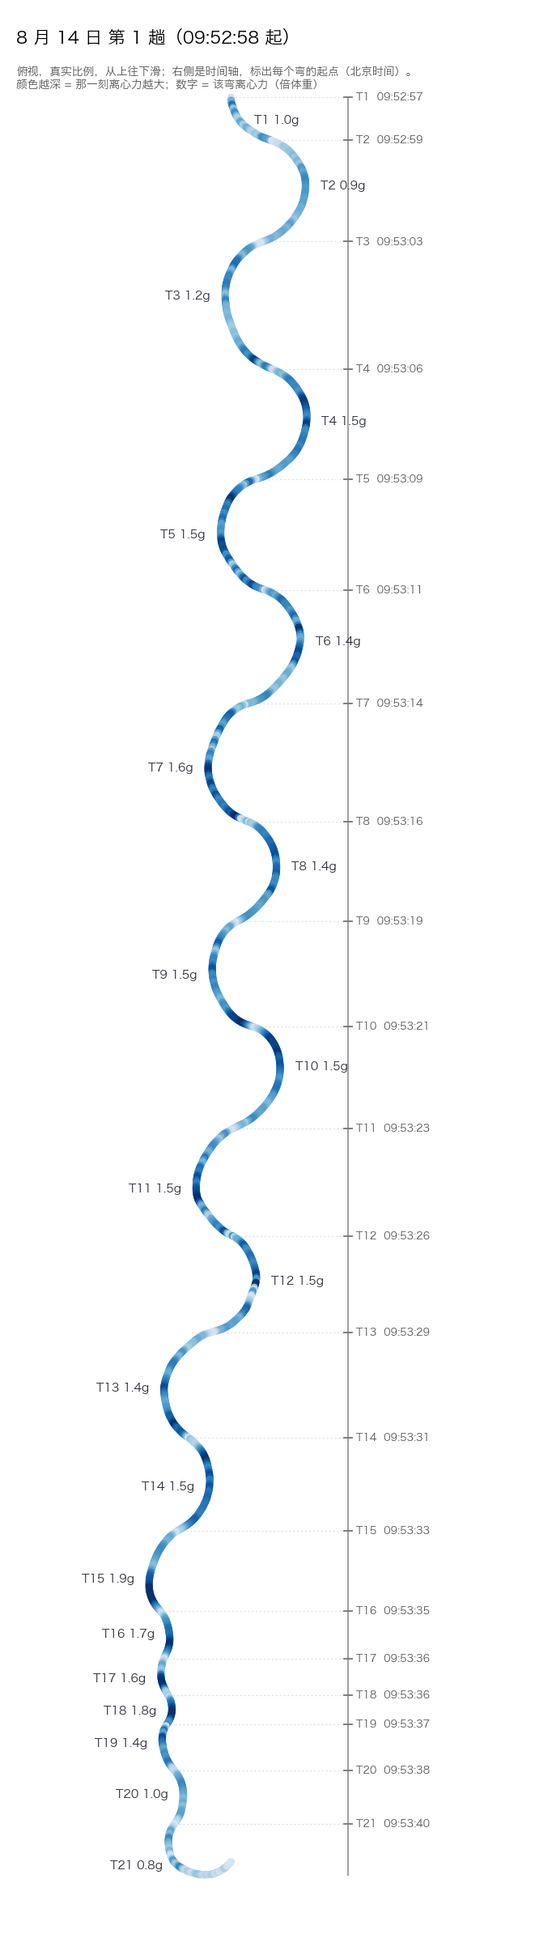
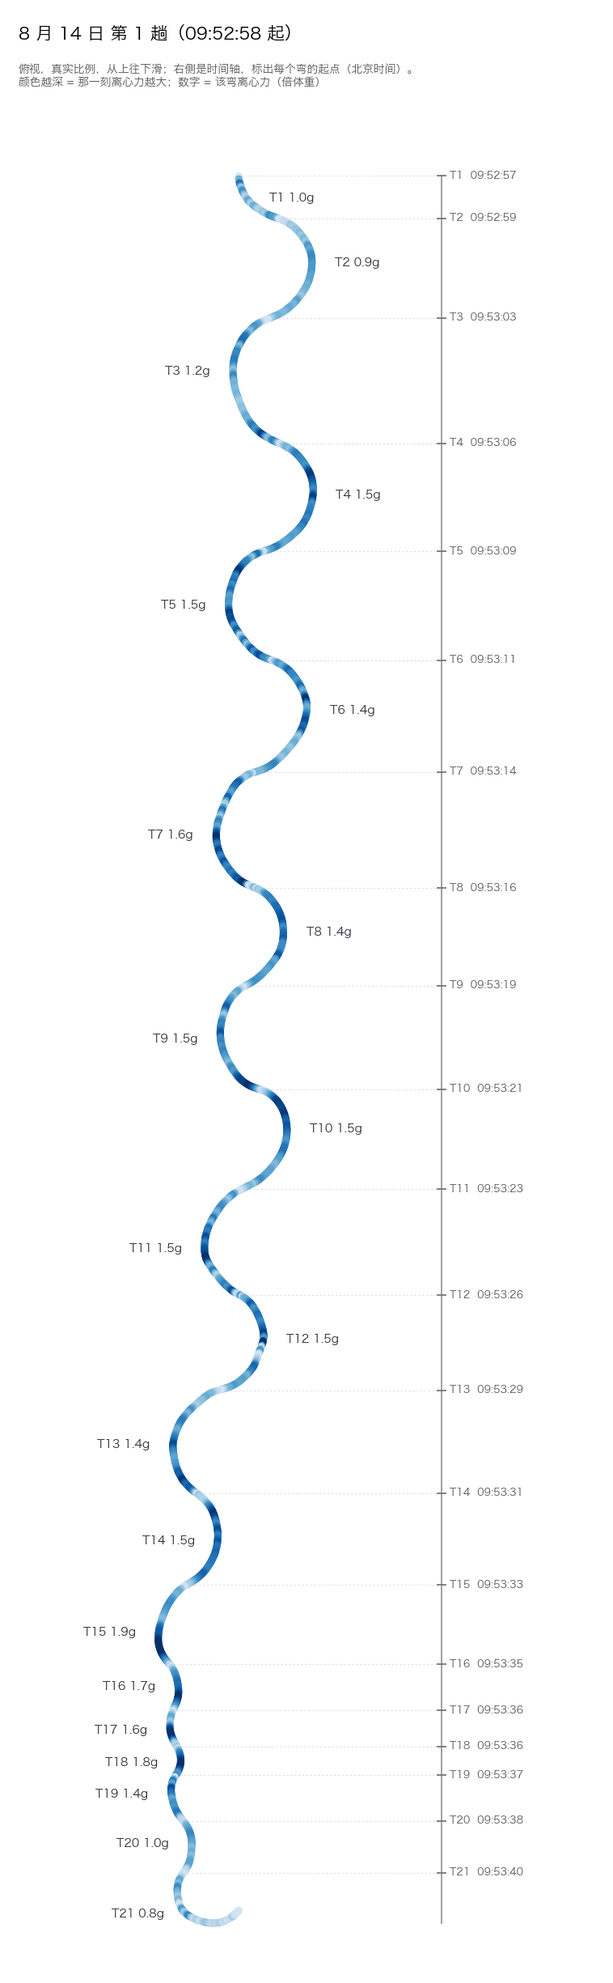
fix overlapping in turn shapes; mobile layout

diff --git a/index.html b/index.html
@@ -1,9 +1,9 @@
-<!doctype html><html lang="zh-CN"><head><meta charset="utf-8"><meta name="viewport" content="width=device-width, initial-scale=1">
+<!doctype html><html lang="zh-CN"><head><meta charset="utf-8"><meta name="color-scheme" content="light only"><meta name="viewport" content="width=device-width, initial-scale=1">
 <meta name="robots" content="noindex, nofollow, noarchive, nosnippet, noimageindex"><meta name="referrer" content="no-referrer">
 <title>视频逐弯核对 · 8 月 14 日第 1 趟 · Heygo</title>
 <style>
-:root{--ink:#1d2433;--sub:#5b6577;--line:#e6e9ef;--bg:#f6f7fb;--blue:#2a6fdb}
-*{box-sizing:border-box} body{margin:0;background:var(--bg);color:var(--ink);font-family:-apple-system,"PingFang SC","Hiragino Sans GB","Microsoft YaHei",sans-serif;line-height:1.7}
+html{color-scheme:light} :root{--ink:#1d2433;--sub:#5b6577;--line:#e6e9ef;--bg:#f6f7fb;--blue:#2a6fdb}
+*{box-sizing:border-box} body{margin:0;overflow-x:hidden;background:var(--bg);color:var(--ink);font-family:-apple-system,"PingFang SC","Hiragino Sans GB","Microsoft YaHei",sans-serif;line-height:1.7}
 .wrap{max-width:980px;margin:0 auto;padding:24px 14px 60px} h1{font-size:23px;margin:4px 0} .by{color:var(--sub);font-size:14px}
 h2{font-size:18px;margin:28px 0 6px} h3{font-size:16px;margin:0 0 8px} h3 .t{font-size:12px;color:var(--sub);font-weight:400;margin-left:6px}
 .card{background:#fff;border:1px solid var(--line);border-radius:12px;padding:14px 16px;margin-top:12px}
@@ -20,7 +20,7 @@ table{border-collapse:collapse;width:100%;font-size:13px;margin-top:6px} th,td{b
 .tabs input:nth-of-type(1):checked ~ .panes .p0,.tabs input:nth-of-type(2):checked ~ .panes .p1,.tabs input:nth-of-type(3):checked ~ .panes .p2{display:block}
 .tabs input:nth-of-type(1):checked ~ .btns label:nth-of-type(1),.tabs input:nth-of-type(2):checked ~ .btns label:nth-of-type(2),.tabs input:nth-of-type(3):checked ~ .btns label:nth-of-type(3){background:var(--blue);color:#fff}
 .cap{font-size:13px;color:var(--sub)}
-@media(max-width:700px){.sync{grid-template-columns:1fr 1fr} canvas{height:420px} .pair{grid-template-columns:1fr} .pair video{width:100%;max-width:260px;margin:0 auto;display:block}}
+@media(max-width:700px){.sync{grid-template-columns:minmax(0,1fr)} .sync>*,.pair>*{min-width:0} .sync video{max-width:300px;display:block;margin:0 auto} canvas{height:460px} .pair{grid-template-columns:minmax(0,1fr)} .pair video{width:100%;max-width:260px;margin:0 auto;display:block}}
 </style></head><body><div class="wrap">
 <h1>视频逐弯核对：8 月 14 日第 1 趟</h1><div class="by">Heygo 团队 · 2026 年 10 月 3 日</div>
 <div class="card">会话 e3343d5d，2026 年 8 月 14 日室内雪场，第 1 趟（北京时间 09:52:58–09:53:44），App 135 分。传感器把这一趟切成 21 个弯；视频 TC_00873 拍到了 T1 到 T20 的全部和 T21 的前一半。
@@ -32,7 +32,7 @@ table{border-collapse:collapse;width:100%;font-size:13px;margin-top:6px} th,td{b
 <h2>边看视频边看位置</h2>
 <div class="card"><div class="sync"><div><video id="v" src="clips/full.mp4" controls muted playsinline preload="metadata"></video>
 <div class="live"><div>当前<b id="lk">—</b></div><div>离心力<b id="lg">—</b></div><div>立刃角<b id="lr">—</b></div></div>
-<p class="cap">播放视频，右边的红点会跟着滑手在真实弯型上走（放大显示附近一段，最右边窄条是整趟）；颜色越深的地方离心力越大。点弯型上的任意位置可以跳到那一刻。</p></div>
+<p class="cap">播放视频，弯型上的红点会跟着滑手在真实弯型上走（放大显示附近一段，最右边窄条是整趟）；颜色越深的地方离心力越大。点弯型上的任意位置可以跳到那一刻。</p></div>
 <canvas id="c"></canvas></div></div>
 
 <h2>整趟三张图</h2>
@@ -132,19 +132,25 @@ table{border-collapse:collapse;width:100%;font-size:13px;margin-top:6px} th,td{b
 <script>
 const D={"sec":[57.957,57.997,58.037,58.077,58.117,58.157,58.197,58.237,58.277,58.317,58.357,58.397,58.437,58.477,58.517,58.557,58.597,58.637,58.677,58.717,58.757,58.797,58.837,58.877,58.917,58.957,58.997,59.037,59.077,59.117,59.157,59.197,59.237,59.277,59.317,59.357,59.397,59.437,59.477,59.517,59.557,59.597,59.637,59.677,59.717,59.757,59.797,59.837,59.877,59.917,59.957,59.997,60.037,60.077,60.117,60.157,60.197,60.237,60.277,60.317,60.357,60.397,60.437,60.477,60.517,60.557,60.597,60.637,60.677,60.717,60.757,60.797,60.837,60.877,60.917,60.957,60.997,61.037,61.077,61.117,61.157,61.197,61.237,61.277,61.317,61.357,61.397,61.437,61.477,61.517,61.557,61.597,61.637,61.677,61.717,61.757,61.797,61.837,61.877,61.917,61.957,61.997,62.037,62.077,62.117,62.157,62.197,62.237,62.277,62.317,62.357,62.397,62.437,62.477,62.517,62.557,62.597,62.637,62.677,62.717,62.757,62.797,62.837,62.877,62.917,62.957,62.997,63.037,63.077,63.117,63.157,63.197,63.237,63.277,63.317,63.357,63.397,63.437,63.477,63.517,63.557,63.597,63.637,63.677,63.717,63.757,63.797,63.837,63.877,63.917,63.957,63.997,64.037,64.077,64.117,64.157,64.197,64.237,64.277,64.317,64.357,64.397,64.437,64.477,64.517,64.557,64.597,64.637,64.677,64.717,64.757,64.797,64.837,64.877,64.917,64.957,64.997,65.037,65.077,65.117,65.157,65.197,65.237,65.277,65.317,65.357,65.397,65.437,65.477,65.517,65.557,65.597,65.637,65.677,65.717,65.757,65.797,65.837,65.877,65.917,65.957,65.997,66.037,66.077,66.117,66.157,66.197,66.237,66.277,66.317,66.357,66.397,66.437,66.477,66.517,66.557,66.597,66.637,66.677,66.717,66.757,66.797,66.837,66.877,66.917,66.957,66.997,67.037,67.077,67.117,67.157,67.197,67.237,67.277,67.317,67.357,67.397,67.437,67.477,67.517,67.557,67.597,67.637,67.677,67.717,67.757,67.797,67.837,67.877,67.917,67.957,67.997,68.037,68.077,68.117,68.157,68.197,68.237,68.277,68.317,68.357,68.397,68.437,68.477,68.517,68.557,68.597,68.637,68.677,68.717,68.757,68.797,68.837,68.877,68.917,68.957,68.997,69.037,69.077,69.117,69.157,69.197,69.237,69.277,69.317,69.357,69.397,69.437,69.477,69.517,69.557,69.597,69.637,69.677,69.717,69.757,69.797,69.837,69.877,69.917,69.957,69.997,70.037,70.077,70.117,70.157,70.197,70.237,70.277,70.317,70.357,70.397,70.437,70.477,70.517,70.557,70.597,70.637,70.677,70.717,70.757,70.797,70.837,70.877,70.917,70.957,70.997,71.037,71.077,71.117,71.157,71.197,71.237,71.277,71.317,71.357,71.397,71.437,71.477,71.517,71.557,71.597,71.637,71.677,71.717,71.757,71.797,71.837,71.877,71.917,71.957,71.997,72.037,72.077,72.117,72.157,72.197,72.237,72.277,72.317,72.357,72.397,72.437,72.477,72.517,72.557,72.597,72.637,72.677,72.717,72.757,72.797,72.837,72.877,72.917,72.957,72.997,73.037,73.077,73.117,73.157,73.197,73.237,73.277,73.317,73.357,73.397,73.437,73.477,73.517,73.557,73.597,73.637,73.677,73.717,73.757,73.797,73.837,73.877,73.917,73.957,73.997,74.037,74.077,74.117,74.157,74.197,74.237,74.277,74.317,74.357,74.397,74.437,74.477,74.517,74.557,74.597,74.637,74.677,74.717,74.757,74.797,74.837,74.877,74.917,74.957,74.997,75.037,75.077,75.117,75.157,75.197,75.237,75.277,75.317,75.357,75.397,75.437,75.477,75.517,75.557,75.597,75.637,75.677,75.717,75.757,75.797,75.837,75.877,75.917,75.957,75.997,76.037,76.077,76.117,76.157,76.197,76.237,76.277,76.317,76.357,76.397,76.437,76.477,76.517,76.557,76.597,76.637,76.677,76.717,76.757,76.797,76.837,76.877,76.917,76.957,76.997,77.037,77.077,77.117,77.157,77.197,77.237,77.277,77.317,77.357,77.397,77.437,77.477,77.517,77.557,77.597,77.637,77.677,77.717,77.757,77.797,77.837,77.877,77.917,77.957,77.997,78.037,78.077,78.117,78.157,78.197,78.237,78.277,78.317,78.357,78.397,78.437,78.477,78.517,78.557,78.597,78.637,78.677,78.717,78.757,78.797,78.837,78.877,78.917,78.957,78.997,79.037,79.077,79.117,79.157,79.197,79.237,79.277,79.317,79.357,79.397,79.437,79.477,79.517,79.557,79.597,79.637,79.677,79.717,79.757,79.797,79.837,79.877,79.917,79.957,79.997,80.037,80.077,80.117,80.157,80.197,80.237,80.277,80.317,80.357,80.397,80.437,80.477,80.517,80.557,80.597,80.637,80.677,80.717,80.757,80.797,80.837,80.877,80.917,80.957,80.997,81.037,81.077,81.117,81.157,81.197,81.237,81.277,81.317,81.357,81.397,81.437,81.477,81.517,81.557,81.597,81.637,81.677,81.717,81.757,81.797,81.837,81.877,81.917,81.957,81.997,82.037,82.077,82.117,82.157,82.197,82.237,82.277,82.317,82.357,82.397,82.437,82.477,82.517,82.557,82.597,82.637,82.677,82.717,82.757,82.797,82.837,82.877,82.917,82.957,82.997,83.037,83.077,83.117,83.157,83.197,83.237,83.277,83.317,83.357,83.397,83.437,83.477,83.517,83.557,83.597,83.637,83.677,83.717,83.757,83.797,83.837,83.877,83.917,83.957,83.997,84.037,84.077,84.117,84.157,84.197,84.237,84.277,84.317,84.357,84.397,84.437,84.477,84.517,84.557,84.597,84.637,84.677,84.717,84.757,84.797,84.837,84.877,84.917,84.957,84.997,85.037,85.077,85.117,85.157,85.197,85.237,85.277,85.317,85.357,85.397,85.437,85.477,85.517,85.557,85.597,85.637,85.677,85.717,85.757,85.797,85.837,85.877,85.917,85.957,85.997,86.037,86.077,86.117,86.157,86.197,86.237,86.277,86.317,86.357,86.397,86.437,86.477,86.517,86.557,86.597,86.637,86.677,86.717,86.757,86.797,86.837,86.877,86.917,86.957,86.997,87.037,87.077,87.117,87.157,87.197,87.237,87.277,87.317,87.357,87.397,87.437,87.477,87.517,87.557,87.597,87.637,87.677,87.717,87.757,87.797,87.837,87.877,87.917,87.957,87.997,88.037,88.077,88.117,88.157,88.197,88.237,88.277,88.317,88.357,88.397,88.437,88.477,88.517,88.557,88.597,88.637,88.677,88.717,88.757,88.797,88.837,88.877,88.917,88.957,88.997,89.037,89.077,89.117,89.157,89.197,89.237,89.277,89.317,89.357,89.397,89.437,89.477,89.517,89.557,89.597,89.637,89.677,89.717,89.757,89.797,89.837,89.877,89.917,89.957,89.997,90.037,90.077,90.117,90.157,90.197,90.237,90.277,90.317,90.357,90.397,90.437,90.477,90.517,90.557,90.597,90.637,90.677,90.717,90.757,90.797,90.837,90.877,90.917,90.957,90.997,91.037,91.077,91.117,91.157,91.197,91.237,91.277,91.317,91.357,91.397,91.437,91.477,91.517,91.557,91.597,91.637,91.677,91.717,91.757,91.797,91.837,91.877,91.917,91.957,91.997,92.037,92.077,92.117,92.157,92.197,92.237,92.277,92.317,92.357,92.397,92.437,92.477,92.517,92.557,92.597,92.637,92.677,92.717,92.757,92.797,92.837,92.877,92.917,92.957,92.997,93.037,93.077,93.117,93.157,93.197,93.237,93.277,93.317,93.357,93.397,93.437,93.477,93.517,93.557,93.597,93.637,93.677,93.717,93.757,93.797,93.837,93.877,93.917,93.957,93.997,94.037,94.077,94.117,94.157,94.197,94.237,94.277,94.317,94.357,94.397,94.437,94.477,94.517,94.557,94.597,94.637,94.677,94.717,94.757,94.797,94.837,94.877,94.917,94.957,94.997,95.037,95.077,95.117,95.157,95.197,95.237,95.277,95.317,95.357,95.397,95.437,95.477,95.517,95.557,95.597,95.637,95.677,95.717,95.757,95.797,95.837,95.877,95.917,95.957,95.997,96.037,96.077,96.117,96.157,96.197,96.237,96.277,96.317,96.357,96.397,96.437,96.477,96.517,96.557,96.597,96.637,96.677,96.717,96.757,96.797,96.837,96.877,96.917,96.957,96.997,97.037,97.077,97.117,97.157,97.197,97.237,97.277,97.317,97.357,97.397,97.437,97.477,97.517,97.557,97.597,97.637,97.677,97.717,97.757,97.797,97.837,97.877,97.917,97.957,97.997,98.037,98.077,98.117,98.157,98.197,98.237,98.277,98.317,98.357,98.397,98.437,98.477,98.517,98.557,98.597,98.637,98.677,98.717,98.757,98.797,98.837,98.877,98.917,98.957,98.997,99.037,99.077,99.117,99.157,99.197,99.237,99.277,99.317,99.357,99.397,99.437,99.477,99.517,99.557,99.597,99.637,99.677,99.717,99.757,99.797,99.837,99.877,99.917,99.957,99.997,100.037,100.077,100.117,100.157,100.197,100.237,100.277,100.317,100.357,100.397,100.437,100.477,100.517,100.557,100.597,100.637,100.677,100.717,100.757,100.797,100.837,100.877,100.917,100.957,100.997,101.037,101.077,101.117,101.157,101.197,101.237,101.277,101.317,101.357,101.397,101.437,101.477,101.517,101.557,101.597,101.637,101.677,101.717,101.757,101.797,101.837,101.877,101.917,101.957,101.997,102.037,102.077,102.117,102.157,102.197,102.237,102.277,102.317,102.357,102.397,102.437,102.477,102.517,102.557,102.597,102.637,102.677,102.717,102.757,102.797,102.837,102.877,102.917,102.957,102.997,103.037,103.077,103.117,103.157,103.197,103.237,103.277,103.317,103.357,103.397,103.437,103.477,103.517,103.557,103.597,103.637,103.677,103.717,103.757,103.797,103.837,103.877,103.917,103.957,103.997,104.037,104.077,104.117,104.157,104.197,104.237,104.277,104.317,104.357,104.397,104.437,104.477,104.517,104.557,104.597],"X":[0.0,0.0,0.02,0.04,0.08,0.13,0.19,0.26,0.33,0.4,0.48,0.56,0.65,0.74,0.84,0.95,1.07,1.19,1.32,1.46,1.6,1.76,1.91,2.07,2.24,2.41,2.58,2.75,2.91,3.08,3.24,3.4,3.57,3.74,3.91,4.08,4.26,4.44,4.62,4.81,4.99,5.17,5.34,5.5,5.65,5.8,5.94,6.09,6.23,6.37,6.52,6.66,6.81,6.95,7.11,7.26,7.42,7.57,7.74,7.9,8.06,8.22,8.37,8.51,8.65,8.78,8.91,9.04,9.17,9.29,9.41,9.54,9.66,9.77,9.89,10.01,10.11,10.21,10.3,10.39,10.47,10.54,10.61,10.67,10.72,10.76,10.8,10.83,10.85,10.86,10.86,10.85,10.83,10.8,10.76,10.72,10.66,10.6,10.53,10.46,10.38,10.29,10.18,10.07,9.96,9.83,9.7,9.57,9.42,9.27,9.11,8.95,8.78,8.59,8.39,8.18,7.97,7.74,7.51,7.27,7.03,6.78,6.52,6.26,6.0,5.72,5.45,5.18,4.89,4.63,4.36,4.09,3.82,3.56,3.3,3.05,2.81,2.59,2.37,2.16,1.96,1.77,1.58,1.39,1.2,1.01,0.84,0.68,0.53,0.39,0.26,0.14,0.01,-0.11,-0.22,-0.33,-0.43,-0.51,-0.59,-0.65,-0.71,-0.75,-0.79,-0.82,-0.84,-0.84,-0.85,-0.85,-0.84,-0.83,-0.81,-0.78,-0.75,-0.72,-0.68,-0.63,-0.57,-0.5,-0.42,-0.34,-0.24,-0.14,-0.04,0.06,0.16,0.26,0.37,0.48,0.6,0.71,0.84,0.98,1.13,1.29,1.45,1.61,1.79,1.98,2.17,2.37,2.57,2.78,3.01,3.25,3.5,3.77,4.04,4.31,4.59,4.88,5.16,5.46,5.75,6.04,6.32,6.61,6.88,7.15,7.41,7.67,7.91,8.15,8.38,8.6,8.81,9.01,9.21,9.4,9.58,9.74,9.91,10.07,10.23,10.38,10.52,10.64,10.74,10.83,10.9,10.96,11.0,11.03,11.04,11.05,11.04,11.01,10.97,10.92,10.87,10.8,10.64,10.55,10.45,10.34,10.21,10.09,9.94,9.78,9.62,9.43,9.22,9.0,8.78,8.54,8.28,8.0,7.72,7.45,7.15,6.85,6.54,6.23,5.91,5.59,5.27,4.96,4.64,4.31,3.98,3.66,3.33,3.01,2.69,2.39,2.1,1.83,1.56,1.29,1.04,0.79,0.54,0.31,0.09,-0.1,-0.27,-0.42,-0.55,-0.68,-0.8,-0.91,-1.02,-1.12,-1.21,-1.28,-1.35,-1.4,-1.45,-1.48,-1.51,-1.52,-1.51,-1.5,-1.47,-1.42,-1.36,-1.27,-1.17,-1.05,-0.9,-0.73,-0.56,-0.38,-0.2,-0.0,0.19,0.39,0.59,0.8,1.02,1.24,1.47,1.7,1.94,2.2,2.46,2.73,3.01,3.3,3.61,3.92,4.23,4.56,4.9,5.23,5.56,5.88,6.19,6.49,6.78,7.06,7.33,7.57,7.8,8.01,8.23,8.44,8.64,8.82,9.0,9.17,9.34,9.48,9.61,9.74,9.86,9.96,10.04,10.08,10.11,10.11,10.08,10.03,9.96,9.89,9.8,9.71,9.61,9.5,9.36,9.22,9.08,8.93,8.76,8.59,8.41,8.22,8.02,7.81,7.6,7.38,7.17,6.94,6.7,6.47,6.22,5.96,5.69,5.43,5.16,4.87,4.58,4.27,3.97,3.65,3.33,3.01,2.68,2.34,2.01,1.69,1.37,1.06,0.78,0.5,0.23,-0.04,-0.29,-0.52,-0.73,-0.92,-1.1,-1.28,-1.45,-1.62,-1.77,-1.91,-2.05,-2.19,-2.33,-2.46,-2.6,-2.71,-2.83,-2.94,-3.05,-3.14,-3.21,-3.26,-3.3,-3.34,-3.35,-3.34,-3.3,-3.25,-3.17,-3.09,-2.99,-2.87,-2.73,-2.58,-2.41,-2.23,-2.03,-1.83,-1.62,-1.41,-1.19,-0.96,-0.73,-0.5,-0.25,0.0,0.27,0.54,0.82,1.1,1.39,1.67,1.96,2.24,2.53,2.81,3.09,3.36,3.62,3.87,4.11,4.34,4.55,4.75,4.94,5.13,5.32,5.5,5.66,5.81,5.95,6.08,6.2,6.3,6.39,6.47,6.52,6.56,6.59,6.61,6.62,6.62,6.6,6.57,6.53,6.48,6.38,6.3,6.2,6.09,5.96,5.8,5.63,5.45,5.25,5.04,4.83,4.62,4.39,4.15,3.91,3.68,3.43,3.18,2.92,2.65,2.39,2.11,1.83,1.55,1.25,0.96,0.67,0.39,0.12,-0.14,-0.39,-0.63,-0.85,-1.07,-1.26,-1.44,-1.61,-1.76,-1.9,-2.02,-2.11,-2.21,-2.3,-2.39,-2.48,-2.56,-2.62,-2.67,-2.71,-2.74,-2.75,-2.74,-2.72,-2.7,-2.66,-2.61,-2.54,-2.46,-2.38,-2.28,-2.16,-2.04,-1.9,-1.75,-1.59,-1.43,-1.26,-1.09,-0.9,-0.72,-0.53,-0.33,-0.12,0.09,0.32,0.56,0.82,1.08,1.34,1.62,1.91,2.2,2.49,2.78,3.08,3.38,3.67,3.96,4.25,4.52,4.78,5.02,5.25,5.48,5.69,5.88,6.06,6.23,6.39,6.53,6.65,6.76,6.86,6.94,7.0,7.06,7.1,7.13,7.15,7.15,7.14,7.11,7.08,7.04,6.97,6.9,6.82,6.73,6.63,6.51,6.38,6.25,6.09,5.93,5.76,5.57,5.38,5.16,4.94,4.72,4.49,4.25,4.0,3.75,3.5,3.23,2.94,2.65,2.35,2.04,1.71,1.38,1.05,0.72,0.38,0.05,-0.28,-0.6,-0.9,-1.19,-1.47,-1.74,-2.01,-2.27,-2.5,-2.72,-2.92,-3.12,-3.3,-3.49,-3.67,-3.84,-4.0,-4.15,-4.28,-4.42,-4.54,-4.65,-4.75,-4.83,-4.9,-4.96,-5.01,-5.04,-5.06,-5.07,-5.08,-5.09,-5.07,-5.05,-5.0,-4.94,-4.86,-4.74,-4.59,-4.44,-4.28,-4.13,-3.97,-3.81,-3.64,-3.46,-3.28,-3.1,-2.92,-2.74,-2.55,-2.34,-2.14,-1.93,-1.72,-1.5,-1.28,-1.05,-0.81,-0.57,-0.31,-0.06,0.19,0.45,0.7,0.94,1.17,1.4,1.61,1.82,2.01,2.18,2.34,2.5,2.66,2.8,2.93,3.05,3.16,3.26,3.36,3.45,3.52,3.59,3.64,3.68,3.7,3.69,3.66,3.61,3.55,3.47,3.38,3.29,3.21,3.13,3.05,2.96,2.87,2.79,2.71,2.63,2.55,2.47,2.38,2.28,2.16,2.03,1.75,1.59,1.43,1.26,1.08,0.91,0.73,0.55,0.38,0.2,0.0,-0.2,-0.42,-0.66,-0.91,-1.16,-1.42,-1.69,-1.94,-2.2,-2.45,-2.71,-2.97,-3.23,-3.49,-3.74,-3.99,-4.23,-4.46,-4.69,-4.9,-5.11,-5.31,-5.51,-5.71,-5.91,-6.11,-6.3,-6.5,-6.71,-6.91,-7.11,-7.31,-7.48,-7.66,-7.84,-8.01,-8.18,-8.35,-8.5,-8.64,-8.77,-8.89,-9.0,-9.1,-9.2,-9.3,-9.4,-9.49,-9.56,-9.63,-9.69,-9.74,-9.77,-9.77,-9.76,-9.74,-9.71,-9.67,-9.62,-9.56,-9.5,-9.43,-9.35,-9.26,-9.16,-9.04,-8.91,-8.76,-8.61,-8.45,-8.27,-8.08,-7.86,-7.65,-7.43,-7.21,-6.98,-6.75,-6.51,-6.25,-6.0,-5.74,-5.49,-5.24,-5.01,-4.78,-4.56,-4.35,-4.16,-4.0,-3.85,-3.73,-3.61,-3.5,-3.41,-3.34,-3.26,-3.2,-3.15,-3.11,-3.1,-3.11,-3.12,-3.15,-3.19,-3.25,-3.33,-3.41,-3.5,-3.61,-3.75,-3.89,-4.04,-4.2,-4.39,-4.57,-4.76,-4.97,-5.2,-5.44,-5.69,-5.96,-6.23,-6.52,-6.82,-7.13,-7.43,-7.73,-8.02,-8.31,-8.58,-8.85,-9.1,-9.33,-9.55,-9.77,-9.99,-10.19,-10.38,-10.56,-10.72,-10.87,-11.01,-11.14,-11.27,-11.39,-11.5,-11.6,-11.7,-11.78,-11.85,-11.9,-11.93,-11.94,-11.94,-11.92,-11.87,-11.79,-11.69,-11.57,-11.43,-11.27,-11.1,-10.91,-10.71,-10.49,-10.28,-10.06,-9.87,-9.7,-9.55,-9.43,-9.31,-9.22,-9.14,-9.08,-9.03,-8.98,-8.95,-8.93,-8.94,-8.97,-9.02,-9.08,-9.17,-9.27,-9.4,-9.52,-9.65,-9.77,-9.89,-9.98,-10.06,-10.12,-10.16,-10.19,-10.21,-10.22,-10.21,-10.19,-10.13,-10.07,-9.99,-9.9,-9.79,-9.68,-9.56,-9.44,-9.31,-9.18,-9.05,-8.94,-8.85,-8.77,-8.71,-8.66,-8.63,-8.61,-8.6,-8.62,-8.65,-8.7,-8.76,-8.83,-8.91,-9.01,-9.12,-9.25,-9.37,-9.49,-9.61,-9.72,-9.81,-9.88,-9.94,-9.99,-10.02,-10.04,-10.04,-10.02,-9.99,-9.96,-9.91,-9.86,-9.8,-9.73,-9.66,-9.58,-9.5,-9.41,-9.31,-9.19,-9.07,-8.94,-8.79,-8.65,-8.5,-8.36,-8.22,-8.08,-7.94,-7.81,-7.69,-7.58,-7.47,-7.37,-7.29,-7.22,-7.15,-7.09,-7.05,-7.01,-6.99,-6.97,-6.97,-6.98,-6.99,-7.0,-7.02,-7.03,-7.06,-7.08,-7.11,-7.14,-7.18,-7.22,-7.26,-7.32,-7.38,-7.44,-7.51,-7.58,-7.65,-7.72,-7.81,-7.9,-8.01,-8.11,-8.23,-8.34,-8.45,-8.55,-8.65,-8.73,-8.81,-8.89,-8.95,-9.0,-9.04,-9.08,-9.1,-9.12,-9.13,-9.12,-9.11,-9.09,-9.06,-9.03,-8.99,-8.95,-8.9,-8.84,-8.76,-8.68,-8.58,-8.47,-8.35,-8.21,-8.05,-7.89,-7.72,-7.54,-7.37,-7.19,-7.0,-6.82,-6.64,-6.45,-6.27,-6.09,-5.9,-5.72,-5.53,-5.35,-5.16,-4.97,-4.78,-4.59,-4.4,-4.22,-4.03,-3.85,-3.67,-3.5,-3.33,-3.16,-2.99,-2.84,-2.69,-2.54,-2.4,-2.26,-2.13,-2.0,-1.87,-1.76,-1.65,-1.55,-1.45,-1.36,-1.28,-1.2,-1.13,-1.06,-1.0,-0.95,-0.89,-0.84,-0.79,-0.74,-0.69,-0.65,-0.61,-0.57,-0.53,-0.49,-0.45,-0.42,-0.38,-0.34,-0.31,-0.28,-0.24,-0.21,-0.18,-0.14,-0.11,-0.07,-0.04,0.0],"Y":[-0.0,-0.21,-0.46,-0.63,-0.84,-1.05,-1.25,-1.45,-1.65,-1.85,-2.04,-2.24,-2.43,-2.62,-2.81,-2.99,-3.17,-3.34,-3.51,-3.67,-3.83,-3.98,-4.12,-4.25,-4.39,-4.51,-4.63,-4.75,-4.86,-4.97,-5.07,-5.18,-5.29,-5.39,-5.49,-5.58,-5.67,-5.75,-5.82,-5.9,-5.97,-6.03,-6.1,-6.15,-6.21,-6.26,-6.31,-6.37,-6.42,-6.48,-6.55,-6.62,-6.69,-6.77,-6.85,-6.93,-7.03,-7.13,-7.23,-7.35,-7.47,-7.59,-7.72,-7.85,-7.99,-8.13,-8.28,-8.43,-8.59,-8.76,-8.92,-9.09,-9.27,-9.44,-9.62,-9.8,-9.98,-10.17,-10.36,-10.55,-10.74,-10.93,-11.13,-11.33,-11.54,-11.75,-11.96,-12.19,-12.43,-12.68,-12.93,-13.2,-13.46,-13.72,-13.99,-14.26,-14.52,-14.78,-15.03,-15.28,-15.53,-15.76,-15.99,-16.22,-16.44,-16.65,-16.87,-17.08,-17.3,-17.51,-17.72,-17.95,-18.16,-18.38,-18.6,-18.82,-19.04,-19.25,-19.44,-19.63,-19.82,-20.0,-20.16,-20.32,-20.47,-20.59,-20.71,-20.82,-20.93,-21.04,-21.15,-21.26,-21.37,-21.48,-21.6,-21.73,-21.88,-22.04,-22.2,-22.38,-22.57,-22.75,-22.95,-23.15,-23.34,-23.55,-23.76,-23.98,-24.21,-24.45,-24.69,-24.93,-25.18,-25.43,-25.69,-25.95,-26.21,-26.47,-26.73,-26.98,-27.23,-27.48,-27.73,-27.97,-28.22,-28.47,-28.72,-28.98,-29.24,-29.51,-29.78,-30.05,-30.32,-30.59,-30.86,-31.13,-31.4,-31.68,-31.95,-32.22,-32.5,-32.77,-33.04,-33.3,-33.56,-33.83,-34.09,-34.35,-34.62,-34.88,-35.15,-35.41,-35.67,-35.93,-36.18,-36.43,-36.67,-36.9,-37.12,-37.33,-37.54,-37.73,-37.93,-38.11,-38.29,-38.46,-38.63,-38.79,-38.94,-39.09,-39.24,-39.38,-39.5,-39.62,-39.75,-39.88,-40.02,-40.17,-40.33,-40.48,-40.64,-40.82,-41.01,-41.22,-41.44,-41.67,-41.9,-42.14,-42.38,-42.64,-42.89,-43.15,-43.41,-43.69,-43.97,-44.26,-44.56,-44.86,-45.16,-45.46,-45.78,-46.07,-46.38,-46.68,-46.98,-47.27,-47.57,-47.87,-48.17,-48.47,-49.07,-49.36,-49.66,-49.96,-50.26,-50.55,-50.83,-51.12,-51.4,-51.67,-51.93,-52.18,-52.44,-52.69,-52.93,-53.16,-53.41,-53.65,-53.88,-54.1,-54.31,-54.52,-54.71,-54.87,-55.03,-55.18,-55.3,-55.42,-55.52,-55.63,-55.74,-55.85,-55.97,-56.12,-56.28,-56.46,-56.65,-56.86,-57.08,-57.33,-57.59,-57.86,-58.13,-58.41,-58.7,-59.0,-59.3,-59.61,-59.91,-60.21,-60.51,-60.82,-61.12,-61.44,-61.76,-62.08,-62.4,-62.73,-63.05,-63.37,-63.7,-64.02,-64.35,-64.66,-64.98,-65.3,-65.61,-65.93,-66.23,-66.54,-66.84,-67.14,-67.44,-67.73,-68.01,-68.3,-68.58,-68.85,-69.12,-69.38,-69.64,-69.89,-70.13,-70.35,-70.56,-70.76,-70.95,-71.12,-71.27,-71.41,-71.54,-71.66,-71.77,-71.88,-72.02,-72.19,-72.36,-72.55,-72.74,-72.94,-73.15,-73.39,-73.63,-73.9,-74.16,-74.44,-74.72,-75.01,-75.31,-75.6,-75.91,-76.23,-76.56,-76.89,-77.22,-77.56,-77.92,-78.26,-78.61,-78.95,-79.3,-79.64,-79.97,-80.31,-80.64,-80.96,-81.29,-81.59,-81.89,-82.18,-82.47,-82.75,-83.03,-83.3,-83.57,-83.84,-84.09,-84.34,-84.6,-84.86,-85.1,-85.35,-85.6,-85.86,-86.11,-86.35,-86.59,-86.83,-87.06,-87.28,-87.46,-87.63,-87.79,-87.93,-88.06,-88.17,-88.27,-88.37,-88.47,-88.59,-88.73,-88.9,-89.1,-89.31,-89.52,-89.74,-89.97,-90.23,-90.51,-90.8,-91.1,-91.4,-91.7,-92.0,-92.32,-92.63,-92.95,-93.26,-93.6,-93.93,-94.28,-94.62,-94.96,-95.3,-95.64,-95.98,-96.33,-96.68,-97.04,-97.39,-97.75,-98.1,-98.46,-98.82,-99.18,-99.53,-99.89,-100.24,-100.58,-100.93,-101.25,-101.57,-101.88,-102.17,-102.48,-102.77,-103.05,-103.32,-103.57,-103.82,-104.05,-104.26,-104.45,-104.63,-104.8,-104.94,-105.08,-105.2,-105.33,-105.45,-105.56,-105.68,-105.82,-105.97,-106.13,-106.3,-106.49,-106.7,-106.92,-107.15,-107.39,-107.63,-107.88,-108.14,-108.4,-108.68,-108.96,-109.25,-109.56,-109.87,-110.19,-110.51,-110.82,-111.15,-111.47,-111.79,-112.11,-112.43,-112.74,-113.06,-113.35,-113.66,-114.0,-114.26,-114.55,-114.85,-115.14,-115.43,-115.71,-115.99,-116.26,-116.52,-116.79,-117.06,-117.33,-117.59,-117.85,-118.1,-118.34,-118.57,-118.79,-119.0,-119.2,-119.39,-119.58,-119.74,-119.89,-120.04,-120.2,-120.37,-120.56,-120.76,-120.98,-121.22,-121.46,-121.72,-121.99,-122.28,-122.56,-122.85,-123.16,-123.46,-123.77,-124.08,-124.39,-124.7,-125.02,-125.33,-125.65,-125.99,-126.31,-126.63,-126.96,-127.29,-127.61,-127.92,-128.24,-128.56,-128.87,-129.17,-129.48,-129.78,-130.08,-130.38,-130.67,-130.97,-131.26,-131.54,-131.83,-132.12,-132.4,-132.68,-132.96,-133.22,-133.48,-133.71,-133.94,-134.15,-134.35,-134.53,-134.69,-134.84,-134.97,-135.08,-135.19,-135.29,-135.39,-135.49,-135.6,-135.72,-135.87,-136.03,-136.21,-136.41,-136.62,-136.84,-137.07,-137.32,-137.58,-137.85,-138.12,-138.4,-138.7,-139.0,-139.31,-139.62,-139.93,-140.25,-140.59,-140.91,-141.24,-141.56,-141.88,-142.19,-142.5,-142.8,-143.1,-143.39,-143.66,-143.94,-144.22,-144.49,-144.76,-145.03,-145.31,-145.57,-145.84,-146.12,-146.39,-146.65,-146.92,-147.19,-147.45,-147.69,-147.93,-148.16,-148.39,-148.61,-148.82,-149.02,-149.21,-149.39,-149.56,-149.71,-149.89,-150.06,-150.23,-150.4,-150.57,-150.77,-150.98,-151.21,-151.45,-151.7,-151.96,-152.22,-152.48,-152.77,-153.05,-153.34,-153.62,-153.9,-154.18,-154.47,-154.75,-155.04,-155.33,-155.63,-155.91,-156.2,-156.5,-156.79,-157.08,-157.37,-157.66,-157.93,-158.21,-158.49,-158.77,-159.05,-159.32,-159.6,-159.88,-160.17,-160.45,-160.73,-160.99,-161.25,-161.49,-161.74,-161.97,-162.21,-162.44,-162.67,-162.89,-163.12,-163.35,-163.58,-163.8,-164.02,-164.23,-164.43,-164.63,-164.83,-165.01,-165.19,-165.35,-165.5,-165.64,-165.77,-165.91,-166.04,-166.19,-166.36,-166.54,-166.73,-166.94,-167.17,-167.41,-167.66,-167.92,-168.19,-168.47,-168.75,-169.04,-169.33,-169.62,-169.91,-170.2,-170.49,-170.78,-171.06,-171.34,-171.62,-171.9,-172.17,-172.44,-172.69,-172.94,-173.18,-173.41,-173.64,-173.87,-174.1,-174.32,-174.55,-174.77,-175.0,-175.22,-175.45,-175.67,-175.89,-176.11,-176.32,-176.52,-176.72,-177.1,-177.28,-177.46,-177.64,-177.81,-177.97,-178.14,-178.3,-178.45,-178.6,-178.75,-178.89,-179.03,-179.16,-179.29,-179.41,-179.51,-179.6,-179.67,-179.76,-179.84,-179.91,-179.99,-180.07,-180.15,-180.23,-180.34,-180.45,-180.59,-180.74,-180.89,-181.05,-181.22,-181.39,-181.55,-181.72,-181.89,-182.06,-182.24,-182.42,-182.6,-182.79,-182.99,-183.18,-183.39,-183.6,-183.8,-184.02,-184.23,-184.46,-184.68,-184.92,-185.16,-185.41,-185.66,-185.91,-186.17,-186.42,-186.69,-186.96,-187.23,-187.5,-187.78,-188.05,-188.33,-188.61,-188.9,-189.2,-189.49,-189.78,-190.09,-190.39,-190.7,-191.01,-191.33,-191.64,-191.93,-192.23,-192.52,-192.8,-193.08,-193.34,-193.59,-193.83,-194.07,-194.3,-194.51,-194.72,-194.91,-195.09,-195.27,-195.46,-195.67,-195.88,-196.11,-196.36,-196.61,-196.86,-197.13,-197.41,-197.7,-198.0,-198.32,-198.65,-198.98,-199.32,-199.66,-200.0,-200.34,-200.68,-201.03,-201.37,-201.72,-202.06,-202.4,-202.75,-203.08,-203.42,-203.73,-204.05,-204.37,-204.68,-204.98,-205.28,-205.58,-205.87,-206.14,-206.43,-206.7,-206.96,-207.21,-207.46,-207.69,-207.91,-208.12,-208.31,-208.49,-208.67,-208.84,-209.02,-209.22,-209.43,-209.66,-209.9,-210.17,-210.44,-210.72,-211.0,-211.3,-211.61,-211.92,-212.23,-212.55,-212.88,-213.21,-213.54,-213.88,-214.21,-214.55,-214.9,-215.24,-215.59,-215.95,-216.3,-216.65,-217.0,-217.35,-217.7,-218.03,-218.36,-218.69,-218.99,-219.29,-219.57,-219.84,-220.1,-220.35,-220.6,-220.86,-221.13,-221.42,-221.72,-222.03,-222.35,-222.67,-222.99,-223.31,-223.63,-223.95,-224.25,-224.56,-224.87,-225.19,-225.48,-225.78,-226.07,-226.36,-226.64,-226.92,-227.2,-227.48,-227.75,-228.05,-228.33,-228.62,-228.93,-229.22,-229.51,-229.81,-230.1,-230.38,-230.66,-230.93,-231.18,-231.42,-231.66,-231.9,-232.14,-232.37,-232.6,-232.82,-233.05,-233.28,-233.51,-233.75,-233.99,-234.23,-234.47,-234.7,-234.94,-235.17,-235.41,-235.63,-235.86,-236.08,-236.3,-236.51,-236.71,-236.91,-237.1,-237.3,-237.5,-237.72,-237.93,-238.16,-238.39,-238.67,-238.88,-239.12,-239.37,-239.62,-239.87,-240.11,-240.36,-240.62,-240.87,-241.11,-241.35,-241.58,-241.81,-242.03,-242.26,-242.48,-242.7,-242.92,-243.12,-243.32,-243.51,-243.68,-243.85,-244.03,-244.21,-244.39,-244.58,-244.78,-244.99,-245.2,-245.42,-245.64,-245.87,-246.11,-246.34,-246.57,-246.81,-247.04,-247.27,-247.5,-247.72,-247.94,-248.17,-248.37,-248.58,-248.79,-248.97,-249.16,-249.34,-249.52,-249.7,-249.88,-250.05,-250.21,-250.37,-250.52,-250.65,-250.78,-250.92,-251.07,-251.22,-251.37,-251.54,-251.71,-251.87,-252.04,-252.21,-252.38,-252.55,-252.73,-252.92,-253.12,-253.32,-253.52,-253.73,-253.93,-254.14,-254.35,-254.56,-254.77,-254.98,-255.2,-255.42,-255.64,-255.86,-256.07,-256.28,-256.48,-256.68,-256.87,-257.06,-257.23,-257.39,-257.54,-257.68,-257.81,-257.93,-258.04,-258.14,-258.23,-258.32,-258.41,-258.48,-258.56,-258.62,-258.68,-258.74,-258.79,-258.84,-258.88,-258.91,-258.94,-258.96,-258.98,-258.99,-259.0,-259.0,-258.99,-258.98,-258.97,-258.95,-258.92,-258.88,-258.84,-258.8,-258.75,-258.69,-258.64,-258.58,-258.52,-258.47,-258.41,-258.36,-258.3,-258.25,-258.21,-258.16,-258.11,-258.07,-258.02,-257.98,-257.94,-257.89,-257.85,-257.81,-257.77,-257.73,-257.69,-257.65,-257.61,-257.57,-257.54,-257.5,-257.46,-257.43,-257.39,-257.36,-257.32,-257.29,-257.25,-257.22,-257.18,-257.14,-257.11],"L":[0.0,0.0,0.76,0.567,0.732,1.13,1.162,0.85,0.384,0.482,0.773,0.951,0.898,0.668,0.449,0.297,0.273,0.417,0.684,0.74,0.588,0.359,0.268,0.491,0.64,0.653,0.538,0.404,0.31,0.252,0.256,0.345,0.436,0.406,0.348,0.357,0.567,0.844,0.954,0.924,0.826,0.817,0.811,0.749,0.63,0.483,0.0,0.0,0.0,0.0,0.047,0.105,0.146,0.135,0.095,0.12,0.217,0.358,0.415,0.388,0.356,0.357,0.411,0.452,0.441,0.438,0.471,0.537,0.491,0.416,0.404,0.488,0.596,0.535,0.439,0.405,0.509,0.767,0.851,0.81,0.723,0.684,0.749,0.829,0.899,0.948,0.971,0.963,0.939,0.905,0.863,0.819,0.815,0.838,0.851,0.83,0.77,0.737,0.742,0.759,0.758,0.71,0.646,0.622,0.633,0.649,0.623,0.592,0.556,0.501,0.401,0.461,0.618,0.755,0.778,0.629,0.57,0.613,0.682,0.698,0.642,0.591,0.551,0.533,0.554,0.627,0.627,0.558,0.437,0.313,0.0,0.0,0.0,0.0,0.242,0.528,0.714,0.768,0.841,0.868,0.813,0.679,0.53,0.56,0.746,0.983,1.132,1.115,1.166,1.199,1.116,0.804,0.559,0.618,0.817,0.995,0.974,0.944,0.984,1.051,1.096,1.078,1.036,0.95,0.806,0.609,0.474,0.555,0.763,0.971,1.01,0.794,0.64,0.589,0.614,0.607,0.548,0.533,0.557,0.597,0.587,0.523,0.444,0.376,0.344,0.4,0.481,0.504,0.475,0.434,0.538,0.655,0.693,0.646,0.604,0.768,0.969,1.089,1.069,0.943,0.889,0.979,1.201,1.491,1.556,1.204,0.755,0.468,0.579,0.968,1.088,0.906,0.506,0.07,0.074,0.361,0.566,0.612,0.52,0.503,0.68,0.874,1.019,1.076,1.043,0.984,0.957,0.961,0.974,0.902,0.874,0.963,1.172,1.415,1.553,1.597,1.556,1.455,1.365,1.299,1.2,1.083,0.967,0.976,1.149,1.384,1.556,1.505,1.174,0.961,0.992,1.03,1.044,1.089,1.103,1.036,0.957,1.054,1.12,1.104,0.999,1.002,0.903,0.807,0.752,0.749,0.825,0.803,0.743,0.699,0.682,0.729,0.875,1.028,1.072,0.905,0.802,0.726,0.539,0.004,0.171,0.683,1.174,1.153,0.807,0.429,0.595,0.891,1.02,1.041,1.064,1.229,1.473,1.629,1.583,1.241,0.99,1.045,1.16,1.162,0.944,0.955,1.104,1.2,1.073,0.808,0.771,0.832,0.886,0.836,0.823,1.021,1.304,1.532,1.507,1.381,1.422,1.466,1.338,0.917,0.947,1.217,1.331,0.888,0.295,0.482,0.93,1.207,0.797,0.452,0.732,1.178,1.377,0.976,0.934,1.197,1.445,1.37,1.041,0.974,0.918,0.677,0.035,0.349,0.651,0.864,0.777,0.661,0.789,1.03,1.22,1.145,1.028,0.999,1.006,0.938,0.823,0.901,1.091,1.221,1.0,0.653,0.674,1.042,1.568,1.7,1.324,0.948,0.693,0.65,0.8,0.987,1.156,1.306,1.459,1.435,1.281,1.194,1.246,1.376,1.079,0.699,0.437,0.42,0.563,0.652,0.665,0.6,0.473,0.426,0.498,0.585,0.612,0.508,0.42,0.459,0.621,0.858,1.014,1.014,0.956,0.887,0.838,0.735,0.602,0.544,0.554,0.554,0.088,0.455,0.624,0.509,0.373,0.443,0.924,1.238,1.288,1.205,1.15,1.079,0.837,0.73,0.872,1.273,1.192,0.761,0.379,0.32,0.796,1.151,1.008,0.635,0.408,0.815,1.037,0.94,0.731,0.773,1.162,1.439,1.607,1.653,1.534,1.195,1.068,1.2,1.499,1.46,1.123,1.01,1.15,1.42,1.254,1.025,0.973,1.088,1.138,1.01,1.09,1.263,1.392,1.291,1.497,1.831,1.821,1.116,0.16,0.0,0.29,0.574,0.148,0.455,0.338,0.385,0.585,0.837,0.967,1.004,1.039,1.05,1.01,0.999,1.081,1.165,1.203,1.175,1.217,1.279,1.326,1.351,1.406,1.389,1.234,1.029,0.913,1.067,1.184,1.238,1.258,1.317,1.137,0.978,0.924,0.958,0.971,0.978,1.151,1.347,1.355,0.903,0.725,0.738,0.839,0.885,0.811,0.738,0.711,0.739,0.78,0.831,0.858,0.87,0.885,0.925,0.865,0.718,0.513,0.313,0.0,0.057,0.344,0.691,0.74,0.62,0.516,0.685,0.82,0.897,0.975,1.142,1.325,1.278,1.009,0.612,0.371,0.567,0.825,0.999,1.015,0.956,1.046,1.241,1.399,1.352,1.046,0.959,0.993,1.039,0.906,0.877,0.97,1.02,0.939,0.838,0.821,0.711,0.582,0.55,0.807,0.932,0.904,0.82,0.891,1.12,1.314,1.446,1.522,1.521,1.51,1.574,1.659,1.695,1.529,1.299,1.021,0.702,0.347,0.045,0.157,0.316,0.437,0.631,0.831,1.028,1.215,1.416,1.547,1.557,1.505,1.494,1.482,1.493,1.536,1.587,1.579,1.385,1.272,1.263,1.348,1.389,1.337,1.245,1.151,1.086,0.997,0.893,0.849,0.901,1.057,1.111,1.129,1.142,1.146,1.018,0.855,0.802,0.784,0.711,0.57,0.541,0.618,0.736,0.759,0.73,0.714,0.731,0.797,0.925,0.966,0.839,0.612,0.407,0.552,0.61,0.517,0.321,0.161,0.0,0.11,0.607,0.913,0.842,0.594,0.401,0.538,0.737,0.871,0.946,0.97,0.804,0.61,0.626,0.857,1.146,0.907,0.624,0.59,0.876,1.188,1.119,1.036,1.089,1.336,1.473,1.319,1.132,1.029,1.119,1.293,1.377,1.42,1.463,1.562,1.691,1.733,1.627,1.345,0.914,0.622,0.604,0.81,1.1,0.955,0.534,0.278,0.317,0.633,0.756,0.823,0.92,1.042,1.025,0.895,0.941,1.175,1.487,1.289,0.61,0.149,0.217,0.894,0.205,0.557,0.695,0.674,0.86,1.132,1.335,1.236,1.005,0.904,0.95,1.088,1.166,1.159,1.097,1.008,0.933,1.003,1.12,1.216,1.294,1.476,1.545,1.226,0.854,0.865,1.965,2.282,1.557,0.475,0.035,0.649,0.932,0.666,0.093,0.003,0.072,0.242,0.384,0.46,0.673,0.981,1.198,1.269,1.189,1.069,1.022,0.908,0.693,0.584,0.622,0.702,0.759,0.759,0.764,0.748,0.719,0.703,0.791,0.843,0.773,0.659,0.615,0.588,0.371,0.143,0.0,0.0,0.118,0.173,0.346,0.499,0.572,0.556,0.585,0.677,0.681,0.604,0.499,0.496,0.485,0.434,0.363,0.314,0.442,0.666,0.853,0.899,0.731,0.564,0.572,0.71,0.904,1.038,1.083,1.082,1.05,0.993,0.875,0.73,0.642,0.651,0.773,0.926,1.031,1.117,1.218,1.381,1.457,1.378,1.208,1.043,0.979,0.888,0.776,0.703,0.743,0.833,0.852,0.898,1.023,1.242,1.282,1.262,1.342,1.57,1.675,1.426,1.239,1.211,1.341,1.34,1.25,0.983,0.538,0.0,0.448,0.312,0.307,0.253,0.289,0.501,0.795,0.999,1.193,1.385,1.559,1.632,1.537,1.334,1.099,0.96,1.095,1.317,1.448,1.343,1.08,1.081,1.239,1.41,1.318,1.129,1.144,1.214,1.233,1.178,1.139,1.124,1.117,1.1,1.082,1.057,1.038,1.062,1.229,1.28,1.235,1.141,1.042,0.902,0.696,0.495,0.352,0.314,0.017,0.11,0.458,0.663,0.679,0.613,0.583,0.733,0.872,0.941,0.943,0.933,0.903,0.849,0.787,0.725,0.602,0.513,0.556,0.746,1.039,1.225,1.315,1.342,1.357,1.478,1.742,1.948,2.003,1.862,1.813,1.823,1.773,1.593,1.316,1.097,0.878,0.606,0.237,0.052,0.292,0.609,0.8,0.886,0.928,1.036,1.136,1.188,1.17,1.16,1.223,1.344,1.507,1.677,1.706,1.582,1.351,1.157,1.009,0.76,0.418,0.013,0.203,0.469,0.713,0.694,0.483,0.406,0.58,1.058,1.403,1.576,1.614,1.641,1.688,1.632,1.425,1.008,0.542,0.32,0.288,0.407,0.138,0.442,0.812,0.995,1.109,1.203,1.35,1.498,1.619,1.71,1.777,1.754,1.677,1.548,1.363,1.074,0.89,0.856,0.998,0.0,0.274,0.841,1.146,0.854,0.719,0.973,1.402,1.454,1.307,1.163,1.13,1.047,0.847,0.726,0.747,0.908,0.945,0.899,0.851,0.88,1.002,1.102,1.121,1.022,0.738,0.424,0.231,0.169,0.187,0.154,0.364,0.552,0.634,0.692,0.746,0.813,0.902,0.969,0.983,0.957,0.905,0.845,0.791,0.745,0.7,0.644,0.55,0.518,0.562,0.645,0.683,0.585,0.507,0.489,0.557,0.65,0.71,0.742,0.753,0.753,0.764,0.748,0.672,0.522,0.356,0.254,0.191,0.188,0.0,0.0,0.09,0.203,0.326,0.515,0.703,0.735,0.638,0.52,0.606,0.861,0.996,0.954,0.76,0.634,0.586,0.506,0.423,0.401,0.565,0.602,0.41,0.112,0.001,0.117,0.533,0.827,0.809,0.511,0.343,0.45,0.724,1.0,1.003,0.723,0.418,0.207,0.161,0.266,0.34,0.31,0.202,0.082,0.132,0.272,0.386,0.434,0.422,0.391,0.321,0.232,0.161,0.175,0.242,0.245,0.212,0.183,0.241,0.317,0.325,0.26,0.148,0.083,0.129,0.193,0.207,0.125,0.02,0.0,0.056,0.137,0.163,0.062,0.055,0.155,0.306,0.382,0.304,0.27,0.287,0.321,0.271,0.151,0.077,0.044,0.037,0.011,0.003,0.035,0.071,0.069,0.009,0.0,0.0,0.0,0.0,0.0,0.0,0.0,0.0,0.0],"R":[26.4,27.7,28.9,30.1,31.2,32.1,32.7,33.2,33.5,33.5,33.3,32.9,32.4,31.7,30.9,30.0,29.0,28.1,27.2,26.3,25.5,24.8,24.2,23.8,23.5,23.3,23.3,23.5,23.7,24.1,24.6,25.1,25.6,26.1,26.5,26.8,26.9,26.7,26.3,25.7,24.8,23.6,22.1,20.4,18.5,16.4,14.3,12.0,9.7,7.4,5.2,3.1,1.0,1.0,2.8,4.5,6.2,7.7,9.1,10.5,11.8,13.1,14.3,15.6,16.9,18.1,19.5,20.8,22.3,23.7,25.2,26.7,28.2,29.7,31.2,32.6,33.9,35.1,36.2,37.2,38.0,38.7,39.2,39.5,39.7,39.7,39.6,39.4,39.0,38.5,38.0,37.3,36.7,35.9,35.1,34.3,33.5,32.6,31.8,31.0,30.1,29.4,28.6,28.0,27.4,26.8,26.3,26.0,25.6,25.4,25.2,25.1,24.9,24.8,24.7,24.5,24.2,23.8,23.3,22.6,21.7,20.7,19.4,17.8,16.1,14.0,11.7,9.1,6.4,3.4,0.2,3.1,6.6,10.1,13.6,17.1,20.6,24.0,27.2,30.2,33.1,35.7,38.0,40.1,41.9,43.4,44.6,45.6,46.3,46.8,47.1,47.2,47.1,46.9,46.5,46.1,45.5,44.9,44.3,43.6,42.9,42.1,41.3,40.5,39.6,38.8,37.9,37.0,36.0,35.1,34.1,33.1,32.1,31.1,30.2,29.2,28.3,27.5,26.8,26.3,25.8,25.6,25.5,25.6,25.9,26.4,27.0,27.8,28.8,29.8,30.9,32.0,33.1,34.1,35.1,35.9,36.5,36.8,36.9,36.7,36.1,35.2,33.9,32.1,30.0,27.5,24.6,21.4,17.9,14.0,10.0,5.8,1.5,2.9,7.3,11.7,15.9,20.0,23.9,27.6,31.0,34.2,37.2,39.8,42.2,44.4,46.3,47.9,49.3,50.4,51.4,52.1,52.7,53.0,53.2,53.2,53.1,52.9,52.6,52.2,51.7,51.2,50.7,50.2,49.7,49.2,48.7,48.2,47.7,47.2,46.7,46.2,45.6,45.0,44.4,43.8,43.2,42.6,41.9,41.3,40.8,40.3,39.8,39.3,38.8,38.2,37.6,36.8,35.7,34.4,32.8,30.7,28.2,25.2,21.6,17.6,13.0,8.0,2.6,3.0,8.9,14.8,20.7,26.4,31.8,36.8,41.4,45.4,48.8,51.6,53.8,55.5,56.6,57.3,57.7,57.7,57.6,57.3,57.0,56.7,56.5,56.3,56.2,56.2,56.3,56.4,56.5,56.6,56.5,56.3,56.0,55.4,54.7,53.7,52.6,51.2,49.8,48.3,46.7,45.2,43.7,42.4,41.3,40.4,39.6,39.1,38.7,38.4,38.2,38.0,37.6,37.1,36.2,34.9,33.2,31.0,28.2,24.9,21.0,16.6,11.7,6.4,0.8,5.0,10.8,16.7,22.3,27.8,32.9,37.5,41.7,45.4,48.6,51.2,53.3,54.8,56.0,56.7,57.1,57.2,57.1,56.8,56.3,55.8,55.2,54.6,53.9,53.3,52.6,51.9,51.1,50.3,49.5,48.5,47.4,46.3,45.0,43.6,42.2,40.7,39.2,37.8,36.4,35.2,34.1,33.2,32.6,32.1,31.9,31.9,32.1,32.3,32.6,32.8,32.8,32.6,32.0,31.0,29.4,27.3,24.6,21.2,17.2,12.7,7.7,2.3,3.3,9.1,14.9,20.6,25.9,30.9,35.5,39.4,42.7,45.3,47.3,48.7,49.5,49.8,49.7,49.3,48.7,47.9,47.2,46.5,46.0,45.7,45.6,45.8,46.2,46.9,47.7,48.7,49.8,50.8,51.9,52.8,53.6,54.3,54.7,54.9,54.9,54.7,54.3,53.7,53.1,52.3,51.5,50.6,49.7,48.7,47.7,46.7,45.6,44.4,43.0,41.3,39.5,37.3,34.7,31.8,28.5,24.8,20.7,16.3,11.6,6.7,1.6,3.6,8.7,13.8,18.7,23.3,27.7,31.7,35.4,38.7,41.6,44.1,46.2,48.0,49.4,50.6,51.5,52.2,52.8,53.2,53.5,53.8,53.9,54.0,54.1,54.1,54.0,53.9,53.6,53.3,52.8,52.3,51.6,50.8,49.8,48.8,47.8,46.7,45.6,44.5,43.5,42.5,41.6,40.7,39.9,39.1,38.2,37.3,36.1,34.8,33.1,31.1,28.7,25.8,22.5,18.8,14.6,10.0,5.2,0.1,5.2,10.5,15.7,20.8,25.7,30.3,34.5,38.3,41.6,44.5,46.9,48.9,50.4,51.6,52.5,53.0,53.3,53.4,53.3,53.0,52.6,52.0,51.3,50.6,49.7,48.8,47.9,46.9,45.9,45.0,44.1,43.3,42.5,42.0,41.6,41.3,41.3,41.4,41.6,42.0,42.5,42.9,43.4,43.7,43.8,43.6,43.0,42.0,40.5,38.5,35.8,32.5,28.7,24.2,19.2,13.8,7.9,1.8,4.5,10.8,17.2,23.3,29.2,34.7,39.7,44.3,48.3,51.7,54.5,56.8,58.5,59.6,60.3,60.6,60.5,60.1,59.4,58.5,57.5,56.4,55.2,53.9,52.7,51.4,50.1,48.8,47.6,46.4,45.2,44.1,43.0,42.0,41.1,40.3,39.5,38.9,38.4,38.0,37.7,37.5,37.4,37.3,37.2,37.0,36.6,36.1,35.3,34.2,32.8,30.9,28.6,25.9,22.7,19.1,15.2,10.9,6.4,1.8,2.9,7.6,12.2,16.7,20.8,24.7,28.2,31.4,34.1,36.5,38.6,40.4,41.9,43.2,44.3,45.4,46.4,47.4,48.3,49.3,50.3,51.4,52.4,53.5,54.4,55.3,56.1,56.6,57.0,57.2,57.0,56.6,55.9,54.9,53.6,52.1,50.4,48.6,46.6,44.7,42.8,40.9,39.2,37.8,36.5,35.5,34.6,34.0,33.5,33.2,32.8,32.3,31.7,30.9,29.7,28.2,26.2,23.7,20.7,17.3,13.3,9.0,4.3,0.6,5.7,10.9,16.0,21.0,25.9,30.5,34.8,38.8,42.4,45.6,48.5,51.1,53.3,55.2,56.9,58.3,59.4,60.3,61.0,61.5,61.8,61.8,61.7,61.4,60.9,60.3,59.6,58.8,58.0,57.2,56.4,55.7,55.0,54.4,53.9,53.5,53.1,52.7,52.3,51.9,51.4,50.8,50.1,49.3,48.4,47.4,46.3,45.1,43.9,42.6,41.3,40.0,38.6,37.2,35.6,34.0,32.1,30.1,27.9,25.5,22.8,19.8,16.6,13.2,9.7,6.0,2.3,1.5,5.1,8.7,12.0,15.1,18.0,20.6,23.0,25.0,26.8,28.4,29.8,31.1,32.3,33.4,34.5,35.7,36.8,38.1,39.3,40.7,42.0,43.4,44.8,46.1,47.4,48.6,49.7,50.7,51.5,52.1,52.5,52.8,52.9,52.8,52.5,52.1,51.5,50.8,50.0,49.2,48.4,47.6,46.8,46.2,45.6,45.2,44.9,44.7,44.7,44.7,44.8,44.9,45.0,44.9,44.7,44.2,43.4,42.2,40.6,38.5,35.9,32.7,29.1,25.0,20.4,15.5,10.2,4.8,0.8,6.4,11.9,17.3,22.4,27.1,31.5,35.4,38.8,41.8,44.3,46.3,48.0,49.2,50.2,50.9,51.3,51.6,51.7,51.7,51.7,51.5,51.4,51.2,51.0,50.7,50.4,50.1,49.7,49.2,48.6,47.8,46.9,45.8,44.5,43.0,41.1,39.0,36.6,33.8,30.8,27.4,23.8,19.9,15.9,11.7,7.3,3.0,1.3,5.6,9.7,13.6,17.4,20.9,24.1,27.2,30.0,32.6,35.0,37.2,39.3,41.3,43.3,45.1,47.0,48.7,50.4,51.9,53.3,54.5,55.5,56.2,56.5,56.4,55.9,54.9,53.3,51.2,48.6,45.4,41.6,37.4,32.7,27.6,22.2,16.6,10.8,4.9,1.0,6.9,12.5,17.8,22.8,27.4,31.4,34.8,37.5,39.4,40.6,41.0,40.5,39.1,37.0,34.0,30.3,25.9,21.0,15.6,9.8,3.8,2.3,8.4,14.3,19.8,24.9,29.5,33.4,36.5,38.7,40.1,40.5,40.0,38.5,36.1,32.9,28.8,24.2,18.9,13.2,7.2,1.1,5.0,11.0,16.6,21.7,26.2,30.0,33.0,35.1,36.2,36.3,35.5,33.7,31.0,27.5,23.3,18.5,13.2,7.7,1.9,3.8,9.5,15.0,20.1,24.8,29.1,32.9,36.1,38.8,41.0,42.7,43.8,44.4,44.6,44.3,43.6,42.5,41.0,39.1,36.8,34.1,31.1,27.7,24.0,20.1,16.0,11.7,7.3,2.9,1.4,5.6,9.6,13.4,16.8,19.8,22.4,24.6,26.3,27.7,28.6,29.2,29.5,29.5,29.3,29.0,28.6,28.2,27.7,27.3,26.9,26.6,26.3,26.0,25.7,25.3,24.9,24.3,23.6,22.7,21.5,20.1,18.4,16.5,14.3,11.8,9.1,6.1,3.0,0.2,3.5,6.9,10.2,13.5,16.6,19.5,22.2,24.6,26.7,28.4,29.8,30.9,31.6,32.0,32.2,32.2,31.9,31.6,31.2,30.7,30.2,29.7,29.2,28.7,28.3,27.9,27.5,27.0,26.6,26.1,25.5,24.9,24.2,23.4,22.7,21.8,21.0,20.2,19.4,18.7,18.0,17.4,16.9,16.4,16.1,15.8,15.6,15.4,15.3,15.1,15.0,14.8,14.6,14.3,14.0,13.7,13.2,12.7,12.2,11.6,11.0,10.4,9.8,9.3,8.8,8.4,8.0,7.8,7.7,7.6,7.6,7.7,7.8,7.9,7.9,8.0,8.0,7.9,7.7,7.4,7.1,6.6,6.2,5.7,5.1,4.6,4.1,3.7,3.3,3.0,2.8,2.7,2.7,2.8,3.0,3.2,3.5,3.9,4.4,4.8,5.3,5.7],"turns":[{"k":1,"t0":57.957,"t1":59.757,"e":"\u524d\u5203","l":"\u6413\u96ea"},{"k":2,"t0":59.757,"t1":63.117,"e":"\u540e\u5203","l":"\u8d70\u5203"},{"k":3,"t0":63.117,"t1":66.477,"e":"\u524d\u5203","l":"\u8d70\u5203"},{"k":4,"t0":66.477,"t1":69.117,"e":"\u540e\u5203","l":"\u8d70\u5203"},{"k":5,"t0":69.117,"t1":71.637,"e":"\u524d\u5203","l":"\u8d70\u5203"},{"k":6,"t0":71.637,"t1":74.237,"e":"\u540e\u5203","l":"\u8d70\u5203"},{"k":7,"t0":74.237,"t1":76.757,"e":"\u524d\u5203","l":"\u8d70\u5203"},{"k":8,"t0":76.757,"t1":79.037,"e":"\u540e\u5203","l":"\u8d70\u5203"},{"k":9,"t0":79.037,"t1":81.397,"e":"\u524d\u5203","l":"\u8d70\u5203"},{"k":10,"t0":81.397,"t1":83.797,"e":"\u540e\u5203","l":"\u8d70\u5203"},{"k":11,"t0":83.797,"t1":86.357,"e":"\u524d\u5203","l":"\u8d70\u5203"},{"k":12,"t0":86.357,"t1":89.077,"e":"\u540e\u5203","l":"\u8d70\u5203"},{"k":13,"t0":89.077,"t1":91.797,"e":"\u524d\u5203","l":"\u8d70\u5203"},{"k":14,"t0":91.797,"t1":93.717,"e":"\u540e\u5203","l":"\u8d70\u5203"},{"k":15,"t0":93.717,"t1":95.277,"e":"\u524d\u5203","l":"\u8d70\u5203"},{"k":16,"t0":95.277,"t1":96.197,"e":"\u540e\u5203","l":"\u8d70\u5203"},{"k":17,"t0":96.197,"t1":96.997,"e":"\u524d\u5203","l":"\u8d70\u5203"},{"k":18,"t0":96.997,"t1":97.757,"e":"\u540e\u5203","l":"\u8d70\u5203"},{"k":19,"t0":97.757,"t1":98.957,"e":"\u524d\u5203","l":"\u8d70\u5203"},{"k":20,"t0":98.957,"t1":100.557,"e":"\u540e\u5203","l":"\u8d70\u5203"},{"k":21,"t0":100.557,"t1":104.597,"e":"\u524d\u5203","l":"\u6413\u96ea"}],"off":55.876666666666665};
 const v=document.getElementById('v'),c=document.getElementById('c'),g=c.getContext('2d');
-let W,H,sc,ox,oy,ms,mox,moy,cur=0;const n=D.sec.length,Lm=Math.max(...D.L)*0.9;
+let W,H,sc,ox,oy,MW,LW,AW,ms,mox,moy,cur=0;const n=D.sec.length,Lm=Math.max(...D.L)*0.9;
 const x0=Math.min(...D.X),x1=Math.max(...D.X),y0=Math.min(...D.Y),y1=Math.max(...D.Y);
 function fit(){const r=c.getBoundingClientRect(),dp=devicePixelRatio||1;c.width=r.width*dp;c.height=r.height*dp;g.setTransform(dp,0,0,dp,0,0);W=r.width;H=r.height;
-sc=H/36;ms=(H-20)/(y1-y0);mox=W-14-ms*x1;moy=10+ms*y1;}
+ms=(H-20)/(y1-y0);MW=ms*(x1-x0)+20;LW=Math.min(96,W*0.24);AW=W-MW-LW;mox=W-10-ms*x1;moy=10+ms*y1;sc=Math.min(H/36,(AW-24)/(x1-x0));}
 const px=i=>ox+sc*D.X[i],py=i=>oy-sc*D.Y[i],mx=i=>mox+ms*D.X[i],my=i=>moy-ms*D.Y[i];
 function idx(s){let lo=0,hi=n-1;while(hi-lo>1){const m=(lo+hi)>>1;if(D.sec[m]<s)lo=m;else hi=m}return lo}
 function col(i){return `rgba(42,111,219,${0.15+0.85*Math.min(1,D.L[i]/Lm)})`}
 function draw(){const s=v.currentTime+D.off;cur=(s>=D.sec[0]&&s<=D.sec[n-1])?idx(s):(s<D.sec[0]?0:n-1);
-const mw=ms*(x1-x0)+28;ox=(W-mw)/2-sc*(x0+x1)/2;oy=H/2+sc*D.Y[cur];
-g.clearRect(0,0,W,H);g.lineCap='round';g.lineWidth=9;
+ox=AW/2-sc*(x0+x1)/2;oy=H/2+sc*D.Y[cur];
+g.clearRect(0,0,W,H);g.fillStyle='#fff';g.fillRect(0,0,W,H);g.lineCap='round';
+g.fillStyle='#f6f7fb';g.fillRect(AW+LW,0,MW,H);g.strokeStyle='#e6e9ef';g.lineWidth=1;g.beginPath();g.moveTo(AW+LW,0);g.lineTo(AW+LW,H);g.stroke();
+g.save();g.beginPath();g.rect(0,0,AW,H);g.clip();g.lineWidth=9;
 for(let i=0;i<n-1;i++){const y=py(i);if(y<-20||y>H+20)continue;g.strokeStyle=col(i);g.beginPath();g.moveTo(px(i),py(i));g.lineTo(px(i+1),py(i+1));g.stroke()}
-g.fillStyle='#333';g.font='13px sans-serif';
-for(const t of D.turns){const i=idx(t.t0),y=py(i);if(y>-10&&y<H+10){g.fillText('T'+t.k+' '+t.e+t.l,px(i)+12,y+4);g.fillStyle='#999';g.fillRect(px(i)-5,y-1,10,2);g.fillStyle='#333'}}
+g.restore();
+g.strokeStyle='#bbb';g.lineWidth=1;g.beginPath();g.moveTo(AW+4,0);g.lineTo(AW+4,H);g.stroke();
+g.font='12px sans-serif';let last=-99;
+for(const t of D.turns){const i=idx(t.t0),y=py(i);if(y<-10||y>H+10)continue;const yl=Math.max(y,last+15);last=yl;
+g.strokeStyle='#d5dbe5';g.setLineDash([3,3]);g.beginPath();g.moveTo(px(i),y);g.lineTo(AW+4,y);g.stroke();g.setLineDash([]);
+g.fillStyle='#333';g.fillRect(px(i)-5,y-1,10,2);g.fillText('T'+t.k+' '+t.e+t.l,AW+9,yl+4)}
 g.strokeStyle='#888';g.lineWidth=1;g.beginPath();g.moveTo(14,H-14);g.lineTo(14+sc*5,H-14);g.stroke();g.fillStyle='#888';g.font='11px sans-serif';g.fillText('5 米',16,H-18);
 g.lineWidth=3;for(let i=0;i<n-1;i++){g.strokeStyle=col(i);g.beginPath();g.moveTo(mx(i),my(i));g.lineTo(mx(i+1),my(i+1));g.stroke()}
 g.strokeStyle='rgba(224,48,58,.6)';g.lineWidth=1;g.strokeRect(mox+ms*x0-6,my(cur)-ms*18,ms*(x1-x0)+12,ms*36);
@@ -154,6 +160,6 @@ document.getElementById('lg').textContent=D.L[cur].toFixed(2)+' g';document.getE
 function loop(){draw();if(!v.paused)requestAnimationFrame(loop)}
 v.addEventListener('play',loop);v.addEventListener('seeked',draw);v.addEventListener('timeupdate',()=>{if(v.paused)draw()});
 c.addEventListener('click',e=>{const r=c.getBoundingClientRect(),x=e.clientX-r.left,y=e.clientY-r.top;let b=0,bd=1e9;for(let i=0;i<n;i++){const d=Math.min((px(i)-x)**2+(py(i)-y)**2,(mx(i)-x)**2+(my(i)-y)**2);if(d<bd){bd=d;b=i}}v.currentTime=Math.max(0,D.sec[b]-D.off);draw()});
-addEventListener('resize',()=>{fit();draw()});fit();draw();
+addEventListener('resize',()=>{fit();draw()});fit();draw();const qt=new URLSearchParams(location.search).get('t');if(qt){const f=()=>{v.currentTime=+qt;draw()};v.readyState>=1?f():v.addEventListener('loadedmetadata',f,{once:true})}
 document.querySelectorAll('.turn video').forEach(el=>new IntersectionObserver(es=>es.forEach(x=>{if(x.isIntersecting){el.preload='auto';el.play().catch(()=>{})}else el.pause()}),{threshold:.5}).observe(el));
 </script></body></html>
